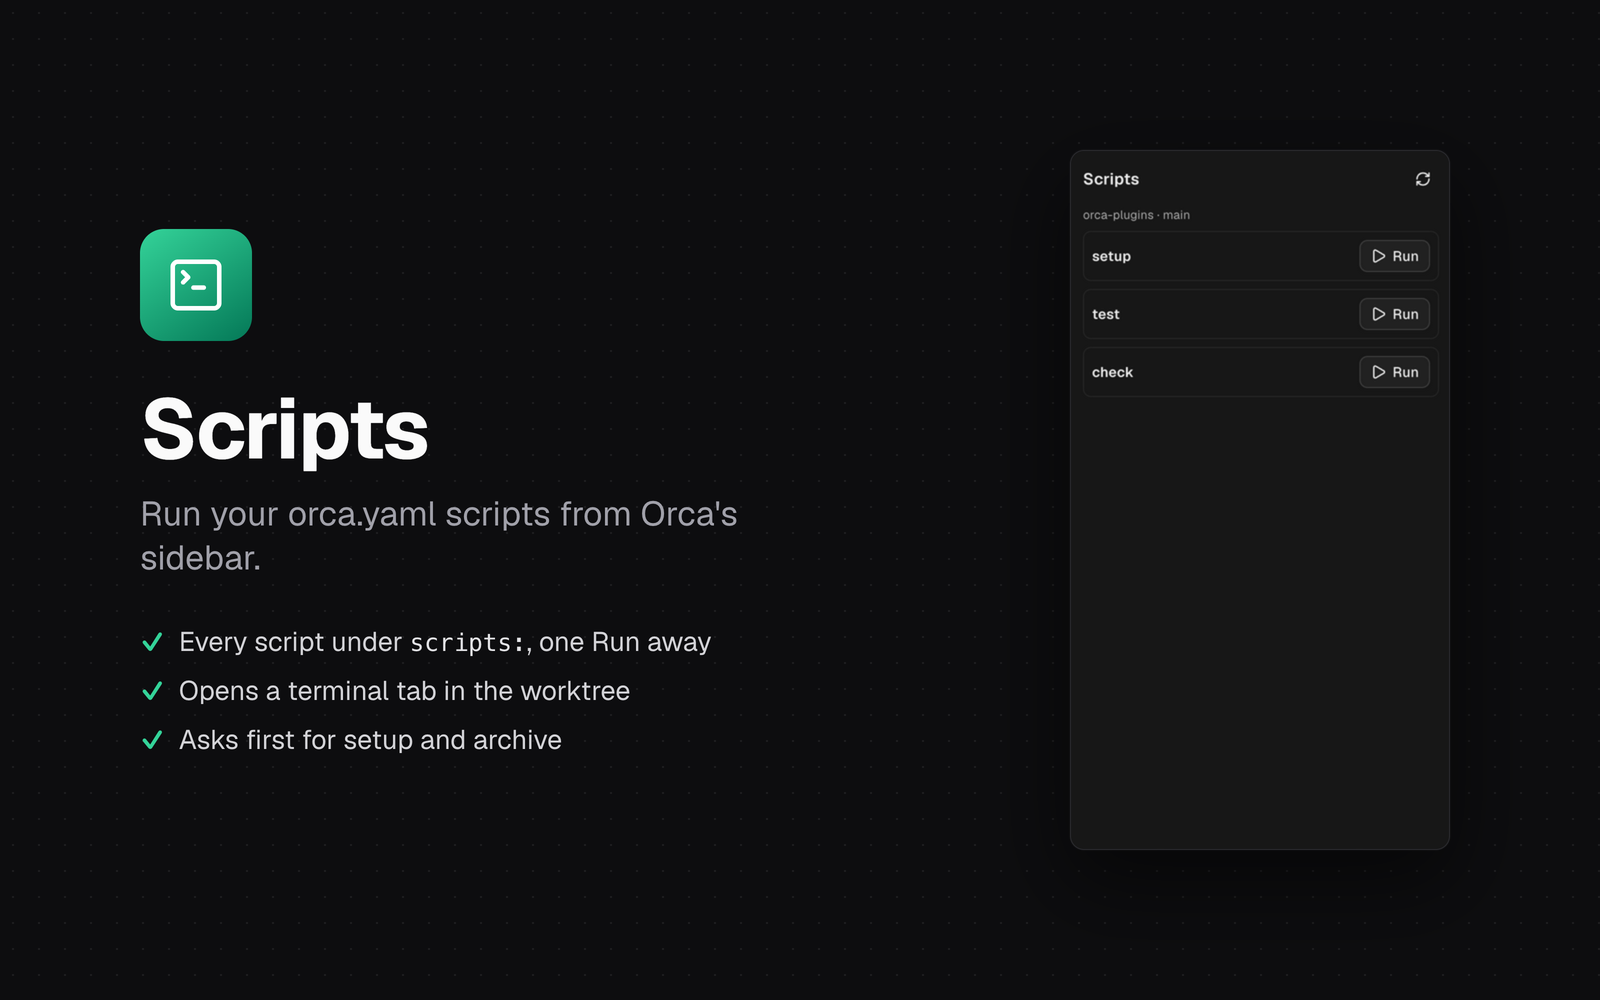
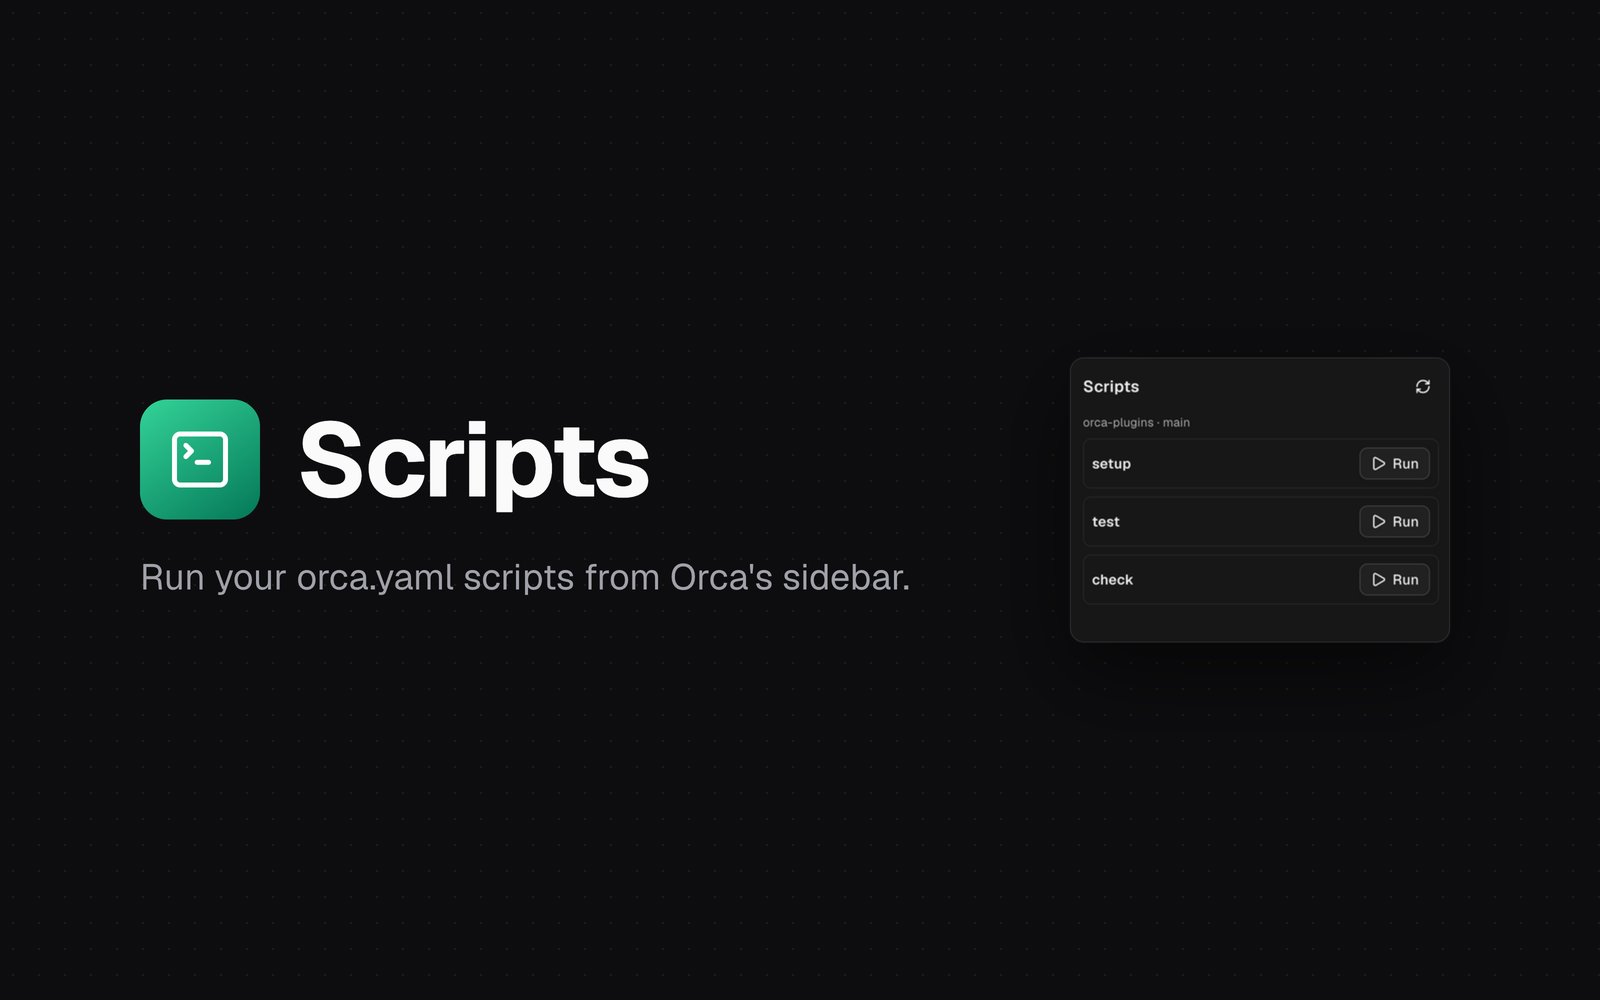
fix: keep the cover's name and tagline visible on Orca's plugin page (1.1.1) (eliasjnior/orca-plugins#11)
## What

- Covers put the icon, name and a one-line tagline in the central band
(y ≈ 400–600 of 1000) and drop the feature list; the Scripts panel frame
fits its content.
- README: documents the band for future covers.
- Both plugins move to **1.1.1**.

## Why

Orca's plugin page renders the cover with `aspect-[16/10] max-h-64
object-cover` (`PluginPageHero.tsx`): on a wide window only the middle
strip shows, which cut the icon and the feature list. Cards still show
the whole 16:10 image.

## Checks

- Simulated Orca's crop at 700, 1100 and 1700 px wide and the 16:10
card: name and tagline show in all of them.
- Both manifests pass `orca plugin validate` and Orca's own validator.

🤖 Generated with [Claude Code](https://claude.com/claude-code)

diff --git a/art/cover.html b/art/cover.html
@@ -5,14 +5,17 @@ html, body { margin: 0; }
 body { font-family: Geist, system-ui, sans-serif; -webkit-font-smoothing: antialiased; }
 </style>
 <style>code { font-family: ui-monospace, Menlo, monospace; font-size: .9em; color:#e4e4e7; }</style></head>
+<!-- Orca shows covers at 16:10 on cards, but its plugin page caps the height at 256px and crops
+     the middle: keep everything that matters inside the central band (about y 380 to 620). -->
 <body style="width:1600px;height:1000px;overflow:hidden;background:#0d0d0f radial-gradient(rgba(255,255,255,.07) 1px,transparent 1.2px) 0 0/26px 26px;color:#fafafa;display:flex;align-items:center;justify-content:space-between;padding:0 150px 0 140px">
-<div style="max-width:720px">
-<div style="width:112px;height:112px;display:flex;align-items:center;justify-content:center;background:linear-gradient(145deg,#34d399,#047857);border-radius:24px">
-<svg aria-hidden="true" width="62" height="62" viewBox="0 0 24 24" fill="none" stroke="#fff" stroke-width="1.75" stroke-linecap="round" stroke-linejoin="round"><path d="m7 11 2-2-2-2"/><path d="M11 13h4"/><rect width="18" height="18" x="3" y="3" rx="2" ry="2"/></svg></div>
-<h1 style="font-size:84px;line-height:1.05;margin:44px 0 18px;font-weight:700;letter-spacing:-.02em">Scripts</h1>
-<p style="font-size:34px;line-height:1.3;color:#a1a1aa;margin:0 0 44px">Run your orca.yaml scripts from Orca's sidebar.</p>
-<ul style="list-style:none;padding:0;margin:0;font-size:27px;color:#d4d4d8"><li style="display:flex;gap:14px;align-items:baseline;margin:0 0 14px"><span style="color:#34d399;font-weight:700">✓</span><span>Every script under <code>scripts:</code>, one Run away</span></li><li style="display:flex;gap:14px;align-items:baseline;margin:0 0 14px"><span style="color:#34d399;font-weight:700">✓</span><span>Opens a terminal tab in the worktree</span></li><li style="display:flex;gap:14px;align-items:baseline;margin:0 0 14px"><span style="color:#34d399;font-weight:700">✓</span><span>Asks first for setup and archive</span></li></ul>
+<div style="max-width:820px">
+<div style="display:flex;align-items:center;gap:36px">
+<div style="width:120px;height:120px;flex:none;display:flex;align-items:center;justify-content:center;background:linear-gradient(145deg,#34d399,#047857);border-radius:27px">
+<svg aria-hidden="true" width="68" height="68" viewBox="0 0 24 24" fill="none" stroke="#fff" stroke-width="1.75" stroke-linecap="round" stroke-linejoin="round"><path d="m7 11 2-2-2-2"/><path d="M11 13h4"/><rect width="18" height="18" x="3" y="3" rx="2" ry="2"/></svg></div>
+<h1 style="font-size:104px;line-height:1;margin:0;font-weight:700;letter-spacing:-.025em">Scripts</h1>
 </div>
-<div style="width:380px;height:700px;border-radius:14px;overflow:hidden;background:#171717;border:1px solid #2a2a2e;box-shadow:0 30px 80px rgba(0,0,0,.55),0 0 0 1px rgba(255,255,255,.02)">
+<p style="font-size:36px;line-height:1.3;color:#a1a1aa;margin:34px 0 0;white-space:nowrap">Run your orca.yaml scripts from Orca's sidebar.</p>
+</div>
+<div style="width:380px;height:285px;border-radius:14px;overflow:hidden;background:#171717;border:1px solid #2a2a2e;box-shadow:0 30px 80px rgba(0,0,0,.55),0 0 0 1px rgba(255,255,255,.02)">
 <img src="../plugins/script-runner/docs/screenshot.png" width="380" style="display:block" alt=""></div>
 </body></html>
